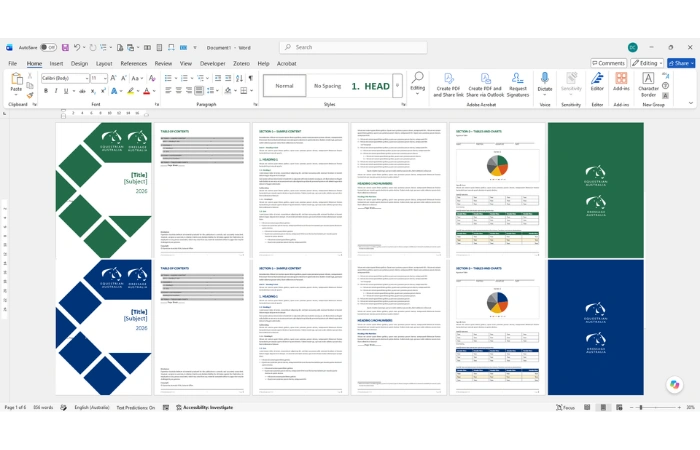
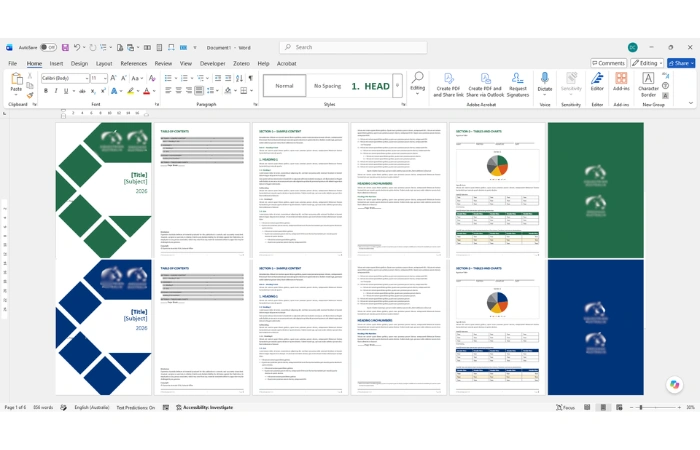
changed case study

diff --git a/app/case-studies/caseStudies.js b/app/case-studies/caseStudies.js
@@ -656,7 +656,7 @@ export const caseStudies = [
       "Content controls and document protection prevent accidental changes to layout or mandatory content",
       "Guided tab-through data entry replaces static, error-prone form completion",
     ],
-    image: "/case-studies/government-workplace-safety-interactive-formsLg.png",
+    image: "/case-studies/government-workplace-safety-interactive-formsLg.webp",
     featured: false,
 
     stats: [
@@ -2291,66 +2291,73 @@ export const caseStudies = [
     industry: "Sport",
     site: "word",
     title:
-      "One Word template that switches between every discipline's brand in a click",
+      "One Word Master Template and a colour theme for every discipline's brand",
     summary:
-      "A national sporting organisation runs several disciplines under one parent brand, each with its own colours and visual identity. Staff were applying discipline branding to documents by hand, leading to inconsistent results and templates that were hard to maintain. We built a single Word Master Template with a custom branding system that lets users switch discipline themes, automatically updating covers, styles, numbering, tables and colours throughout the document.",
+      "A national sporting organisation runs several disciplines under one parent brand, each with its own colours and visual identity. Staff were applying discipline branding to documents by hand, leading to inconsistent results and templates that were hard to maintain. We built a single Word Master Template with a suite of discipline colour themes, so the client can create discipline-specific sub-templates where covers, styles, numbering and tables all pick up the right brand colours, and trained the team to manage them going forward.",
     results: [
-      "One Master Template now supports every discipline brand",
-      "Covers, styles, numbering and tables update automatically when a discipline is selected",
+      "One Master Template now underpins every discipline's sub-templates",
+      "Applying a discipline's colour theme updates the colours across covers, styles, numbering and tables",
       "30+ approved brand colours added beyond Word's standard colour theme",
     ],
     image: "/case-studies/theme-swap-sample.webp",
     featured: false,
 
     stats: [
-      { value: "1 template", label: "Supporting every discipline brand" },
+      {
+        value: "1 template",
+        label: "Master Template behind every discipline's sub-templates",
+      },
       { value: "30+", label: "Approved brand colours built into Word" },
       {
-        value: "7",
-        label: "Branded elements updated automatically on switch",
+        value: "Trained",
+        label: "Client team able to manage the templates going forward",
       },
     ],
 
     challenge: [
       "This national sporting organisation oversees a number of individual disciplines, all operating under a single parent brand. Each discipline has its own brand identity, with a distinct colour palette and visual style that needed to be respected in every document it produced.",
       "Staff were applying these discipline brands to documents manually, adjusting colours, covers and styles by hand each time. The results varied from one document to the next, and the organisation's overall identity was hard to keep consistent across the different disciplines.",
-      "Maintaining a separate template for every discipline wasn't a practical answer either. Each brand change would need to be repeated across multiple files, and staff would have to know which template to pick for which piece of work.",
+      "Building an unrelated template for every discipline wasn't a practical answer either. Each brand change would need to be repeated across multiple files, with no shared foundation keeping the structure and design language consistent.",
       "On top of this, Word's standard colour theme only holds a small set of colours, well short of the range the organisation used across all of its disciplines. Staff had no easy way to reach the approved colours for a given brand from within Word itself.",
     ],
 
     approach: [
       {
+        heading: "Agreeing a practical scope",
+        body: "The original scope included a button to swap colour themes, front and back cover logos, headers and footers in one step. We worked with the client to shape a solution that suited their budget and preferences, focusing on a strong template foundation and colour theme suite, with logos added manually by the client's team.",
+      },
+      {
         heading: "Designing a multi-brand framework",
-        body: "We designed a single Word Master Template that holds one consistent document structure and design language for the whole organisation, with each discipline's visual identity layered on top, rather than a separate template built and maintained for each discipline.",
+        body: "We designed a single Word Master Template that holds one consistent document structure and design language for the whole organisation, with each discipline's visual identity layered on top through colour, rather than a separate template designed from scratch for each discipline.",
       },
       {
-        heading: "Building a custom branding system",
-        body: "We built a custom branding system into the template that lets users select a discipline and switch the whole document to that discipline's theme, so staff never have to apply brand colours or styles by hand.",
-      },
-      {
-        heading: "Automating the branded elements",
-        body: "When a discipline is selected, the template automatically updates the key branded elements throughout the document, including cover pages, back covers, heading styles, multilevel numbering, bullet styles, table styles, and the colour theme and document accents.",
+        heading: "Building a suite of colour themes",
+        body: "We built a suite of colour themes, one for each discipline, that the client can use to create discipline-specific sub-templates from the Master Template. Applying a theme updates the colours used across the cover pages, heading styles, numbering, bullet styles and table styles, so staff don't have to recolour each element by hand.",
       },
       {
         heading: "Extending Word's colour theme",
         body: "Word's standard colour theme couldn't hold the full range of colours the organisation used, so we extended it by building more than 30 additional brand colours directly into the template, grouped and organised by discipline so staff can find the approved options quickly.",
       },
+      {
+        heading: "Training the client's team",
+        body: "We provided training so the client's team can manage the templates themselves, including creating discipline sub-templates and adding logos, without needing to come back to us for routine changes.",
+      },
     ],
 
     outcome: [
-      "Staff now have a simple, reliable way to create professional documents in any discipline's brand from one template, with the correct covers, styles, numbering, tables and colours applied automatically when they select a discipline.",
-      "With no need to maintain multiple templates or adjust branding by hand, document consistency has improved across the organisation, the time spent creating and updating branded content has dropped, and the risk of the wrong brand being applied to a document has been significantly reduced.",
-      "Because every discipline brand is managed centrally from one template, maintenance and governance are far simpler, and the organisation has a scalable foundation that keeps both its parent brand and each discipline's identity intact within a single Word environment.",
+      "The organisation now has one consistent foundation for documents across every discipline. Discipline-specific sub-templates are created from the Master Template, and applying a discipline's colour theme carries the right brand colours through covers, styles, numbering and tables.",
+      "Because approved brand colours sit directly inside Word, staff can reach the right options quickly rather than working from a small standard theme or applying colours by hand. Logos are added by the client's team when a sub-template is set up, a simple manual step that kept the solution aligned with their budget.",
+      "With every discipline built from a single Master Template and one set of colour themes, brand colours are managed in one place, and the client's trained team can maintain and extend the templates as their needs change, with room to add further automation later if they choose.",
     ],
 
     services: [
       {
-        label: "Microsoft Word services",
+        label: "Microsoft Word solutions",
         href: "https://www.wordexperts.com.au",
       },
       {
-        label: "Corporate template solutions",
-        href: "https://www.wordexperts.com.au/corporate-global-template-solution",
+        label: "Brand template services",
+        href: "https://www.wordexperts.com.au/brand-template",
       },
     ],
   },
